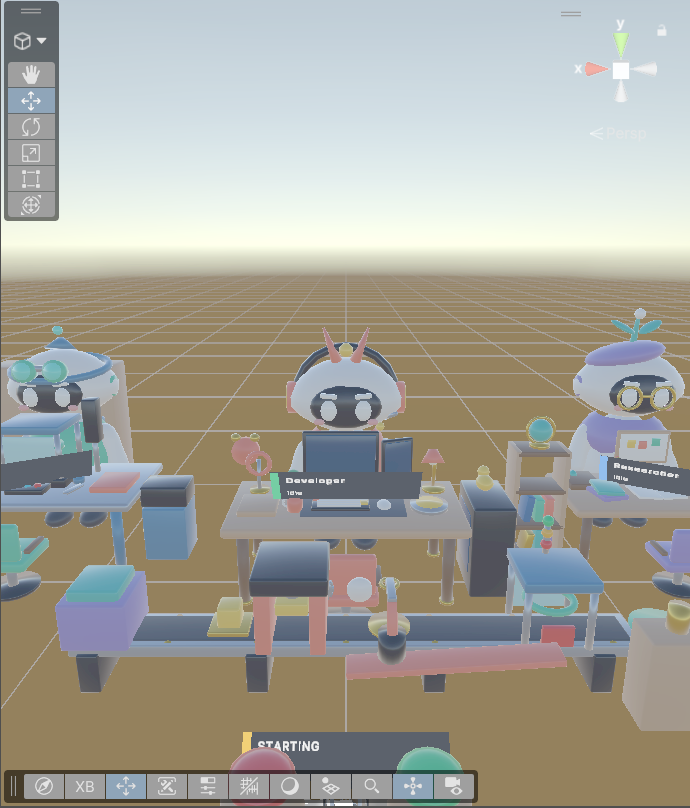
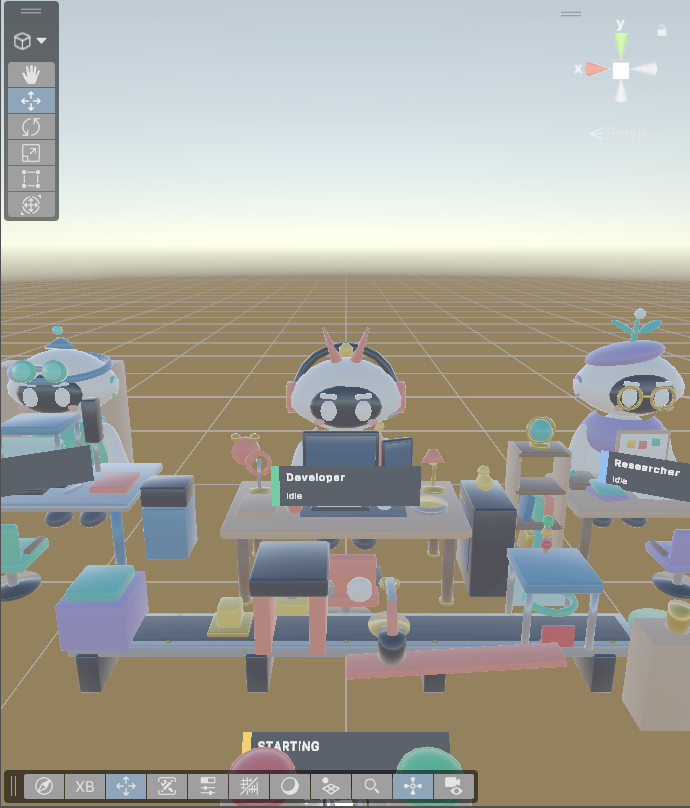
Nameplates upright (on-head feedback); overview for third expert review

Changed region(s): [[0.3957, 0.5569, 0.6087, 0.6498], [0.8522, 0.5569, 1.0, 0.6188], [0.0, 0.5569, 0.1522, 0.6188]]

diff --git a/AgentScripts/IntegrateV2.cs b/AgentScripts/IntegrateV2.cs
@@ -50,7 +50,7 @@ public static class IntegrateV2
             t.localScale = Vector3.one * 1.4f;
             Vector3 eye = new Vector3(0, 0.30f, 0.62f);
             Vector3 away = p - eye; away.y = 0;
-            t.rotation = ws.rotation * Quaternion.LookRotation(away.normalized, Vector3.up) * Quaternion.Euler(-30f, 0, 0);
+            t.rotation = ws.rotation * Quaternion.LookRotation(away.normalized, Vector3.up);   // upright: on head the 30 degree lean read as tilted down
             var np = t.GetComponent("AgentNameplate");
             if (np != null) { var so = new SerializedObject(np); var sp = so.FindProperty("shownScale"); if (sp != null) { sp.vector3Value = Vector3.one * 1.4f; so.ApplyModifiedPropertiesWithoutUndo(); } }
             sb.AppendLine($"{n} -> {p} euler {t.localEulerAngles}");

diff --git a/docs/PROJECT_OVERVIEW_FOR_REVIEW_3.md b/docs/PROJECT_OVERVIEW_FOR_REVIEW_3.md
@@ -1,0 +1,71 @@
+# MuseDesk: overview for expert review (third pass)
+
+2026-11-12, late. Branch `antigravity/visual-polish`. Competition deadline 2026-11-18, noon Pacific.
+
+This follows your "Complete Spatial UX Redesign" brief. It says what was built from it, what the owner has seen on the headset, what is still unverified, and where we would like direction next.
+
+## 1. What MuseDesk is
+
+A Meta Quest 3 mixed-reality app (Unity 6, Meta Interaction SDK, hand tracking, passthrough). A miniature office sits on the surface in front of a seated user. Three rigged robot agents (Researcher, Developer, Tester) work a software task. When a human decision is needed, the Researcher walks up holding a paper; the user takes it, reads it, and approves or rejects by key or by physical stamp. A FastAPI backend runs the real pipeline in a sandbox ("LIVE"); with no PC the app runs a labelled scripted demo ("SCRIPTED DEMO"). The UI only shows an outcome after the backend or demo gateway confirms it, and never presents scripted or template output as live AI work.
+
+## 2. What was built from your brief
+
+Screenshots: `docs/review_screenshots/ux_redesign/` (`before_01..03`, `after_01..10`).
+
+| Your brief | Built |
+|---|---|
+| Zone A: the office is the focus | Floating status panels, name tags, mode sign, guide sign and 20 of 24 decor props removed from view. Each desk has an upright nameplate: role, plus current activity in words |
+| Zone B: contextual interactions in reach | Front band holds only: stamps (centre), task dock (front left), Focus key (front right), mode plaque. Idle poke keys: about 10 down to 3 |
+| Zone C: management collapsed | Task board starts collapsed; the dock's Board key opens it at the user's left |
+| Compact task dock | 16 x 9 cm plate: task count, most relevant task, state in words, mode. Start key appears only when a task is ready and nothing is running |
+| Contextual card actions | Pause/Resume and Priority appear only for a selected card and only when valid; assignment pads appear only while a card is held; refusals are explained in words |
+| Decision paper redesign | Two large keys (Approve, Reject), four small chips (Why, Details, Changes, Voice), separate labelled stamp area, mode band, 13 mm question, provenance line always visible. Details open on a second sheet below so nothing moves |
+| Small-paper state | Carried paper shows a DECISION cover, mode band, TAKE tab and under-sheets for thickness |
+| Start / Replay / Filed / Tips keys | Start is on the dock. Replay is "Run again" on a completion receipt (Delivered, Run failed, or Stopped after a rejection). Filed is a plate on the out-tray stack. Tips is a one-line guide that shows each step once and leaves |
+| Design system | Twelve colour tokens, one type family (Inter) at five sizes with a 5.5 mm floor, text 0.5 mm proud of its surface. `docs/Design/MUSEDESK_DESIGN_SYSTEM.md`, `SPATIAL_INTERACTION_GUIDELINES.md` |
+| Microinteractions and audio | Eased show/hide by scale, pulse on state change, eight synthesised audio cues |
+| XR visual QA tooling | `AgentScripts/XrVisualQa.cs`: text size, overflow, depth gap to the surface behind, facing, parent-scale hazards, key travel against housing, reach, overlaps, occlusion, card lanes. 13 FAIL before the redesign, 0 now |
+
+Also fixed: hand-dropping a card onto an agent had never sent the assignment (a bug since the first commit).
+
+Backend, contracts, event model, gateways and reducers were not changed.
+
+## 3. Evidence
+
+| Level | State |
+|---|---|
+| Automated | Compiles; 33 EditMode tests; 108 runtime smoke checks; 0 missing scripts; backend tests pass; XR visual QA 0 FAIL, 54 WARN |
+| Editor Play Mode | Whole demo loop driven by calling the methods the keys are wired to: Start, paper offered, approve, receipt, archive, board open and close, Run again, reject. No project errors |
+| On the headset | The owner has looked at the redesigned build and said it "is looking really good". The one defect reported was the desk nameplates leaning so they read as tilted down; they are now upright, in a build installed after that report and not yet re-checked |
+| Not confirmed on the headset | Item by item, nothing below has been reported on: pressing the stretched Approve and Reject keys; keys that are hidden by scale until shown (Start, Run again, board toolbar, Filed plate); the Details sheet; stamping on the new stamp area; card drop onto an agent or pad; reach of the open board's keys (0.60 to 0.64 m); audio levels |
+| Performance | No device numbers exist. Unattended capture is blocked by the headset lock screen. Foveated rendering is deferred |
+| Live mode | Live end-to-end against the desktop server last passed (71 checks) before the redesign and was not re-run, since no backend or gateway code changed. Live mode has not been used on the headset with the new UI |
+
+## 4. Known gaps
+
+- Plates are plain rectangles: no rounded corners, and the stamp area has a solid outline instead of a dashed one.
+- Bold is synthetic (Inter Regular only).
+- Poke keys have no hover or press colour change (the colour component writes a property the key shader ignores).
+- Approve and Reject are a square key stretched 2.1 x 0.8, so the side rim is thicker than the top and bottom.
+- With the board open, New, Pause and Priority are a stretch from the seat.
+- The dock says only "In progress: the agents are on it" during a run; per-agent progress is on the nameplates.
+- The plaque's "Connecting..." word is timed, not read from the connection attempt.
+- The archive readout still opens as a floating panel near the Tester for 8 s.
+- The artifact viewer panel (opens on delivery at the user's right) was not redesigned.
+- Characters and workstation models are unchanged; no Blender work was done in this pass.
+
+## 5. Questions for this review
+
+1. With five days left, what is the best order for: device performance measurement, live-mode run on the headset, visual polish (rounded plates, true bold, key hover), and a recorded demo?
+2. Is the idle scene now too bare for a judge's first five seconds, or is the restraint right? Four decor props remain.
+3. The dock, receipt and plaque are flat dark or paper plates. Should they become small physical objects (a clipboard, a ticket printer, a brass desk sign) to match the office, or stay as quiet UI?
+4. The artifact viewer and archive readout are the last floating panels. What should they become?
+5. Is the Researcher walking up with a paper enough of a signature moment, or should approval have a stronger payoff (the factory, the agents reacting)?
+6. Anything in the paper layout (`after_05`, `after_06`, `after_07`) that still reads as prototype?
+
+## 6. Where things are
+
+- Scene builders, in run order: `AgentScripts/BuildOfficeV2.cs`, `BuildTaskDockV2.cs`, `BuildPaperV2.cs`, `IntegrateV2.cs`, then `SetupInterFont.Apply`.
+- Tools: `XrVisualQa.cs`, `PlayDrive.cs` (Play Mode driver), `PreviewV2.cs` (eye-point captures).
+- Docs: `docs/Design/UX_REDESIGN_CHANGELOG.md`, `docs/Engineering/FINAL_DEVICE_QA.md` (ordered on-head checklist), `FINAL_PERFORMANCE_RESULTS.md`, `FINAL_DEMO_WALKTHROUGH.md`.
+- Rollback: git tag `pre-ux-redesign`, `Builds/MuseDesk_pre_ux_redesign.apk`.
